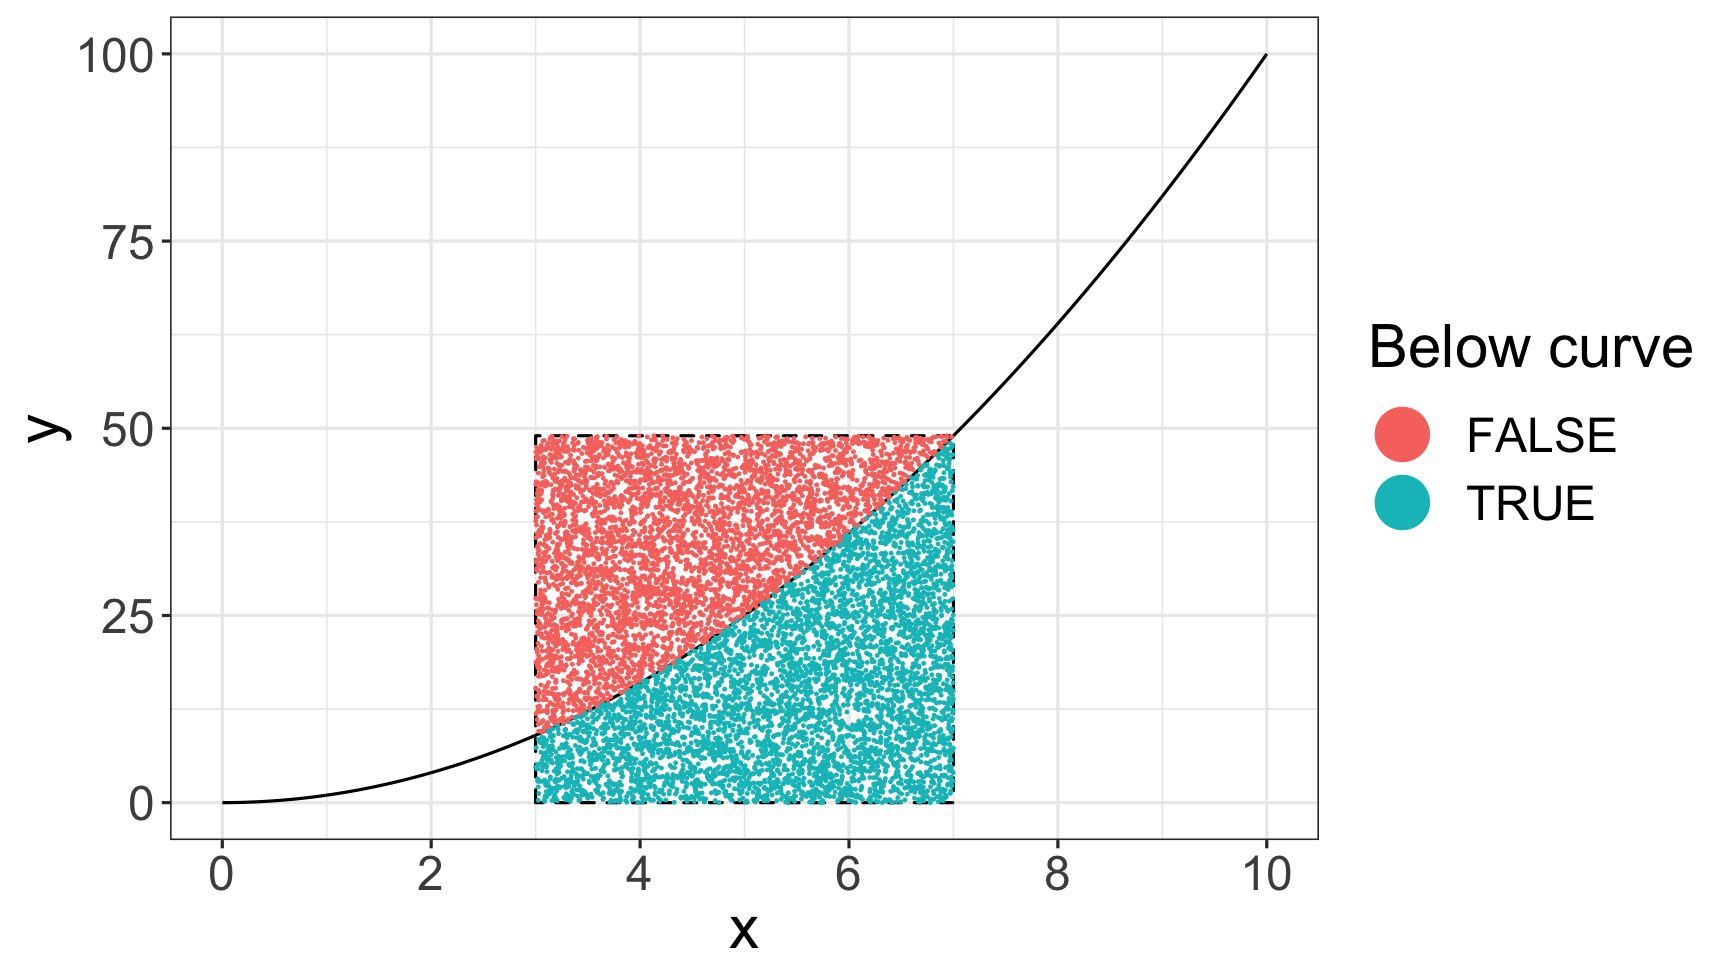
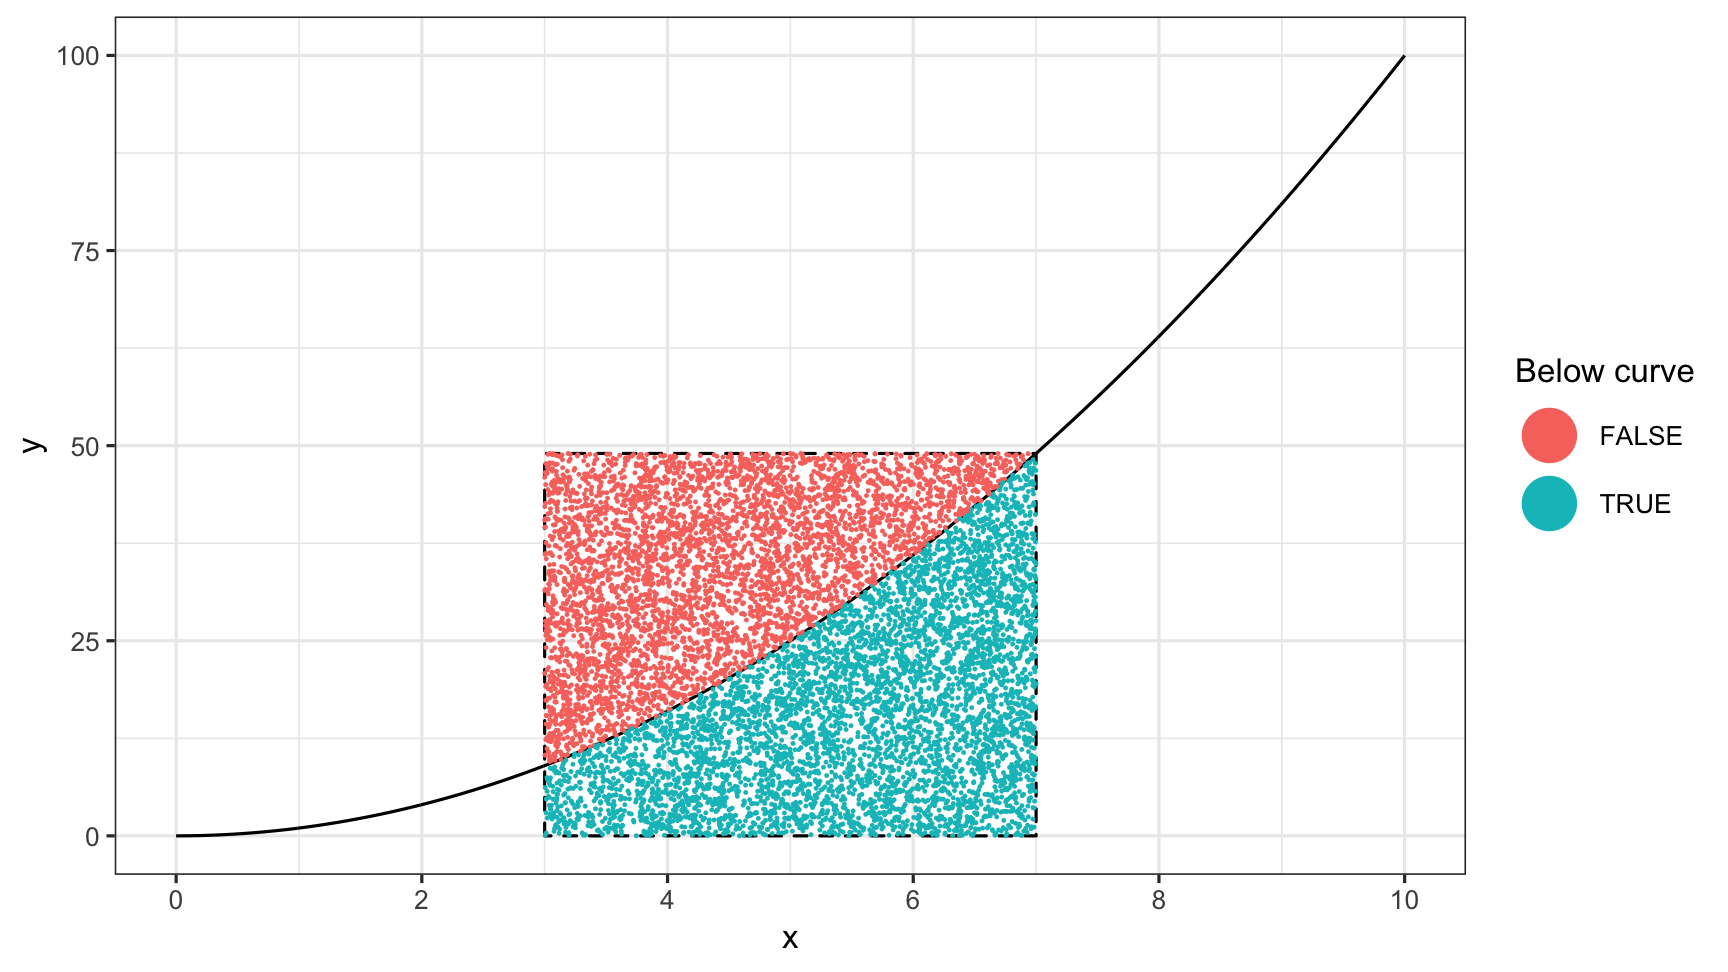
Added section on when replace = FALSE to slides 15

diff --git a/classNotes/15-monte-carlo-methods/slides-15-monte-carlo-methods.html b/classNotes/15-monte-carlo-methods/slides-15-monte-carlo-methods.html
@@ -209,7 +209,7 @@ Actual probability of getting sequence 1, 3, 5:
 name: practice1
 class: inverse
 
-# Practice
+# Practice: Coins &amp; Dice
 
 Use the `sample()` function and a monte carlo simulation to estimate the answers to these questions:
 
@@ -219,10 +219,53 @@ Use the `sample()` function and a monte carlo simulation to estimate the answers
 
 - If you rolled 2 dice, what is the probability that you'll get an outcome that sums to 8?
 
-.leftcol[
-**Bonus**:
 
-What are the odds that five cards drawn from a 52-card deck will sum to a prime number? Set aces to 1 and all "face" cards (Jack, Queen, King) equal to 10. Hint: use `isPrime()` as a helper.
+---
+.font150[When `replace = FALSE`]
+
+Sometimes events cannot be independently simulated  
+&lt;br&gt;
+
+--
+What are the odds that 3 cards drawn from a 52-card deck will sum to an even number? Set aces to 1 and all "face" cards (Jack, Queen, King) equal to 10.
+&lt;br&gt;
+
+--
+
+```r
+deck &lt;- rep(c(seq(10), 10, 10, 10), 4)
+```
+
+--
+
+```r
+N &lt;- 100000
+count &lt;- 0
+for (i in 1:N) {
+*  cards = sample(x = deck, size = 3, replace = FALSE)
+   if (sum(cards) %% 2 == 0) {
+      count &lt;- count + 1
+   }
+}
+count / N
+```
+
+```
+## [1] 0.50267
+```
+
+---
+name: practice2
+class: inverse
+
+# Practice: Cards
+
+Use the `sample()` function and a monte carlo simulation to estimate the answers to these questions:
+
+- What are the odds that four cards drawn from a 52-card deck will have the same suit? 
+
+.leftcol[
+- What are the odds that five cards drawn from a 52-card deck will sum to a prime number? Set aces to 1 and all "face" cards (Jack, Queen, King) equal to 10. Hint: use `isPrime()` as a helper.
 ]
 .rightcol[
 
@@ -268,7 +311,7 @@ sample(x = c(0, 1), size = 10, replace = TRUE)
 ```
 
 ```
-##  [1] 0 1 0 1 1 1 0 1 0 1
+##  [1] 0 1 1 1 1 1 1 0 1 1
 ```
 ]
 
@@ -289,7 +332,7 @@ sample(x = c(0, 1), size = 10, replace = TRUE)
 ```
 
 ```
-##  [1] 0 1 0 1 1 1 0 1 0 1
+##  [1] 0 1 1 1 1 1 1 0 1 1
 ```
 ]
 .rightcol[
@@ -315,7 +358,7 @@ sample(x = c(0, 1), size = 10, replace = TRUE)
 ```
 
 ```
-##  [1] 0 1 0 1 1 1 0 1 0 1
+##  [1] 0 1 1 1 1 1 1 0 1 1
 ```
 ]
 .rightcol[
@@ -331,8 +374,8 @@ runif(n = 10, min = 0, max = 1)
 ```
 
 ```
-##  [1] 0.4917393 0.7354521 0.8095845 0.8784901 0.5351608 0.2818856 0.8632363
-##  [8] 0.9432800 0.1787074 0.8279663
+##  [1] 0.60595855 0.18131703 0.39471650 0.22893047 0.08734609 0.56427848
+##  [7] 0.51454060 0.42721489 0.70768957 0.14946550
 ```
 ]
 
@@ -349,7 +392,7 @@ Example:
 
 Find the area of `\(y = x^2\)` between `\(3 &lt; x &lt; 7\)`
 
-&lt;img src="slides-15-monte-carlo-methods_files/figure-html/unnamed-chunk-27-1.png" width="432" /&gt;
+&lt;img src="slides-15-monte-carlo-methods_files/figure-html/unnamed-chunk-30-1.png" width="432" /&gt;
 ]]
 --
 .rightcol[
@@ -358,7 +401,7 @@ Find the area of `\(y = x^2\)` between `\(3 &lt; x &lt; 7\)`
 &lt;br&gt;
 &lt;br&gt;
 
-&lt;img src="slides-15-monte-carlo-methods_files/figure-html/unnamed-chunk-28-1.png" width="576" /&gt;
+&lt;img src="slides-15-monte-carlo-methods_files/figure-html/unnamed-chunk-31-1.png" width="576" /&gt;
 ]
 
 ---
@@ -367,7 +410,7 @@ class: center
 .font150[Monte Carlo Integration]
 
 .leftcol[
-&lt;img src="slides-15-monte-carlo-methods_files/figure-html/unnamed-chunk-29-1.png" width="576" /&gt;
+&lt;img src="slides-15-monte-carlo-methods_files/figure-html/unnamed-chunk-32-1.png" width="576" /&gt;
 ]
 .rightcol[
 `\(\frac{\text{# Points Under Curve}}{\text{# Total Points}} = \frac{\text{Area Under Curve}}{\text{Area of Rectangle}}\)`
@@ -382,7 +425,7 @@ class: center
 
 --
 .leftcol[
-&lt;img src="slides-15-monte-carlo-methods_files/figure-html/unnamed-chunk-30-1.png" width="576" /&gt;
+&lt;img src="slides-15-monte-carlo-methods_files/figure-html/unnamed-chunk-33-1.png" width="576" /&gt;
 Area of rectangle:
 
 ```r
@@ -411,14 +454,14 @@ head(points)
 
 ```
 ## # A tibble: 6 x 3
-##       x     y belowCurve
-##   &lt;dbl&gt; &lt;dbl&gt; &lt;lgl&gt;     
-## 1  6.22 12.2  TRUE      
-## 2  4.05 21.6  FALSE     
-## 3  5.67 28.8  TRUE      
-## 4  5.93 28.9  TRUE      
-## 5  6.34 41.0  FALSE     
-## 6  5.06  6.64 TRUE
+##       x      y belowCurve
+##   &lt;dbl&gt;  &lt;dbl&gt; &lt;lgl&gt;     
+## 1  3.98  8.36  TRUE      
+## 2  3.55 45.8   FALSE     
+## 3  5.72 29.9   TRUE      
+## 4  6.56  0.157 TRUE      
+## 5  3.89 26.4   FALSE     
+## 6  3.55 20.0   FALSE
 ```
 ]
 
@@ -427,7 +470,7 @@ head(points)
 .font150[Monte Carlo Integration]
 
 .leftcol[
-&lt;img src="slides-15-monte-carlo-methods_files/figure-html/unnamed-chunk-33-1.png" width="576" /&gt;
+&lt;img src="slides-15-monte-carlo-methods_files/figure-html/unnamed-chunk-36-1.png" width="576" /&gt;
 Area of rectangle:
 
 ```r
@@ -454,16 +497,15 @@ points &lt;- tibble(
 ```
 
 ```
-## [1] 5330
+## [1] 5399
 ```
 ]
 
 ---
-
 .font150[Monte Carlo Integration]
 
 .leftcol[
-&lt;img src="slides-15-monte-carlo-methods_files/figure-html/unnamed-chunk-37-1.png" width="576" /&gt;
+&lt;img src="slides-15-monte-carlo-methods_files/figure-html/unnamed-chunk-40-1.png" width="576" /&gt;
 Area of rectangle:
 
 ```r
@@ -490,7 +532,7 @@ sum(points$belowCurve)
 ```
 
 ```
-## [1] 5330
+## [1] 5399
 ```
 Area under curve:
 
@@ -501,7 +543,7 @@ areaUnderCurve
 ```
 
 ```
-## [1] 104.468
+## [1] 105.8204
 ```
 ]
 
@@ -517,7 +559,7 @@ areaUnderCurve
 ```
 
 ```
-## [1] 104.468
+## [1] 105.8204
 ```
 
 --
@@ -536,7 +578,7 @@ areaUnderCurve
 ```
 
 ```
-## [1] 104.468
+## [1] 105.8204
 ```
 
 Actual area under curve:
@@ -553,10 +595,10 @@ error
 ```
 
 ```
-## [1] 0.8653333
+## [1] 0.4870667
 ```
 
-That's an error of 0.83 % - not bad!
+That's an error of 0.46 % - not bad!
 
 ---
 # Monte Carlo `\(\pi\)`
@@ -621,6 +663,7 @@ Ratio of areas = `\(\pi / 4\)`:
 ]
 
 ---
+name: practice3
 class: inverse
 
 # Practice: Estimate `\(\pi\)`
@@ -628,7 +671,7 @@ class: inverse
 
 
 .leftcol-30[
-&lt;img src="slides-15-monte-carlo-methods_files/figure-html/unnamed-chunk-49-1.png" width="432" /&gt;
+&lt;img src="slides-15-monte-carlo-methods_files/figure-html/unnamed-chunk-52-1.png" width="432" /&gt;
 &lt;br&gt;
 
 `\(\pi = 4 \left( \frac{A_{circle}}{A_{square}} \right)\)`
@@ -651,6 +694,7 @@ class: center, middle
 &lt;img src="img/monte_hall.jpg" width="80%" /&gt;
 
 ---
+name: practice4
 class: inverse
 
 # Practice: Monte Hall Problem
